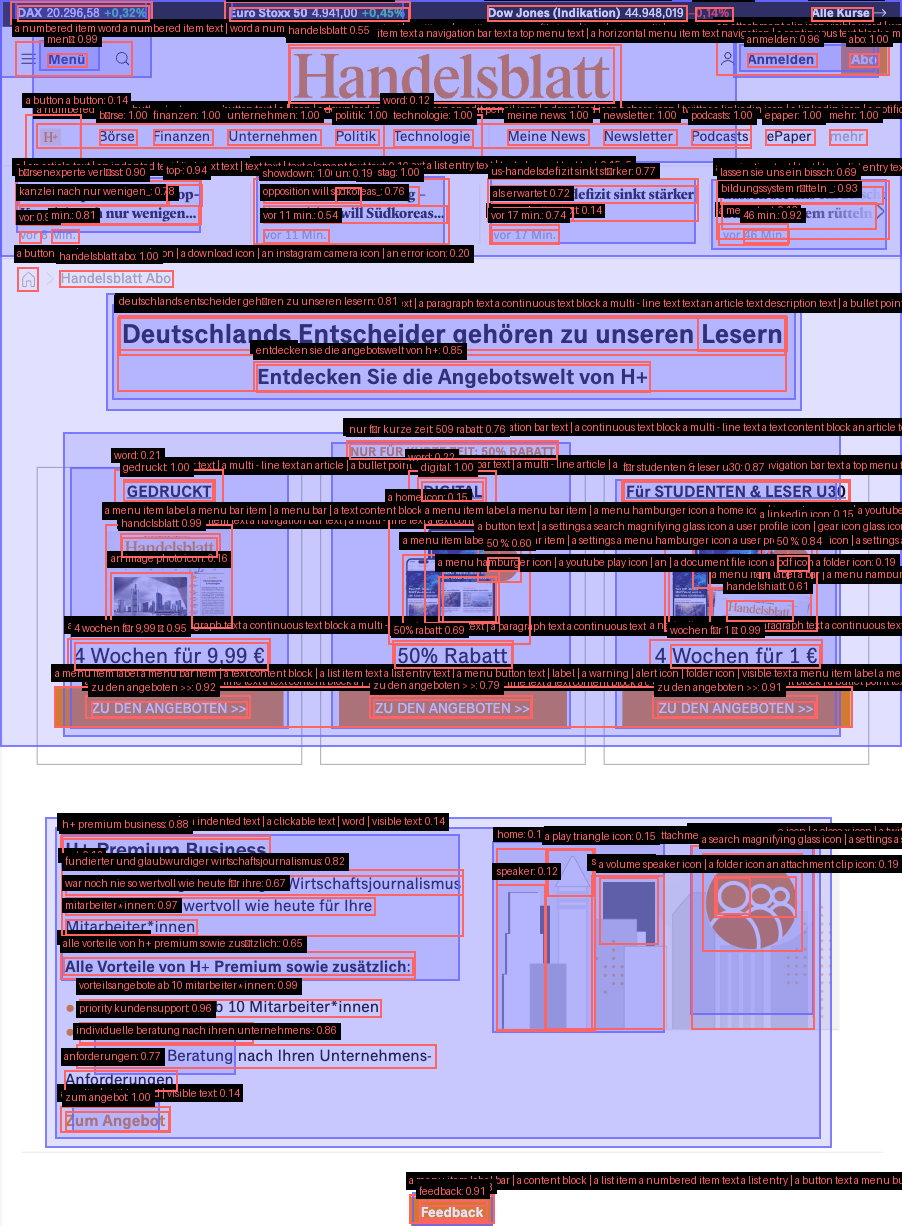
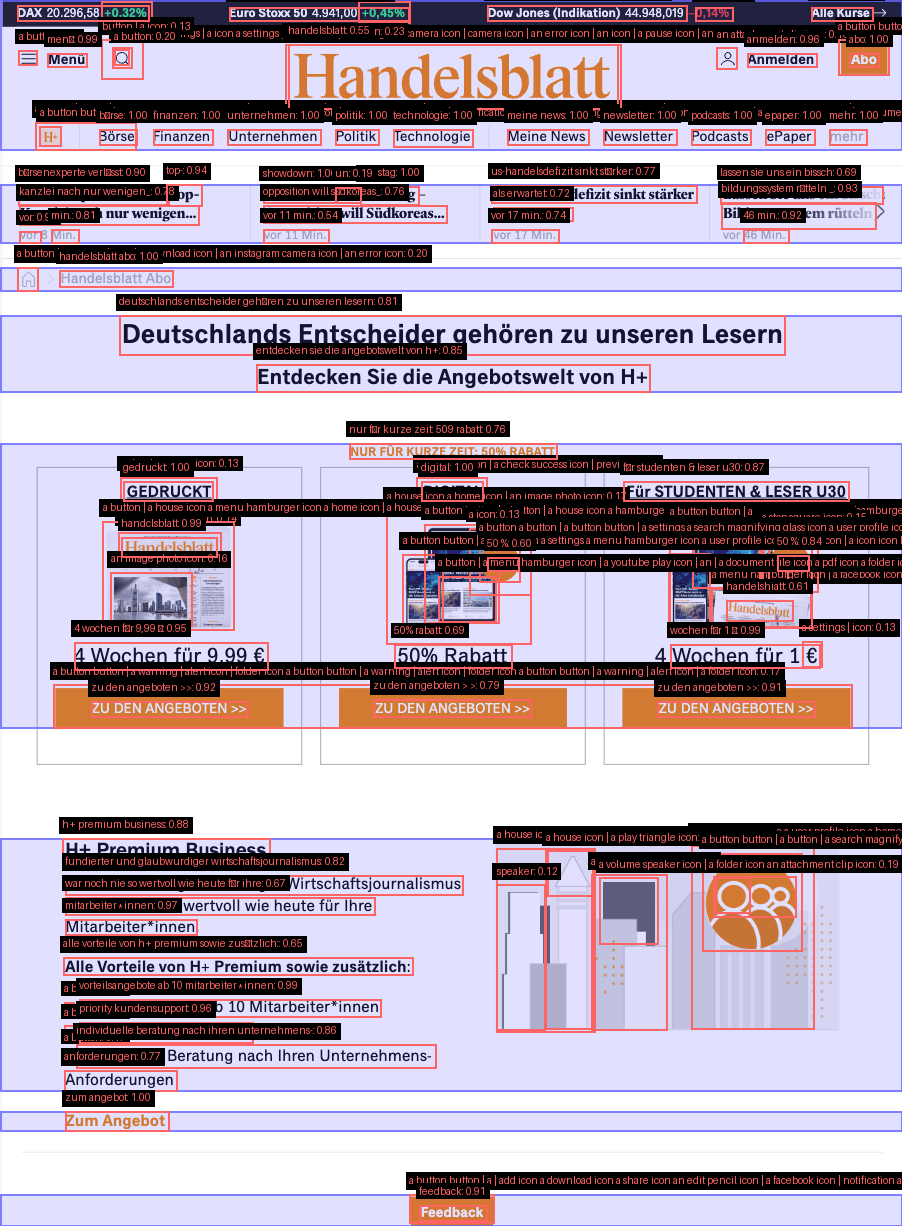
analysing-layout: simpler, stable

diff --git a/services/mask-generation/src/layout.py b/services/mask-generation/src/layout.py
@@ -1,90 +1,72 @@
-import numpy as np
-from scipy.ndimage import gaussian_filter, label
 from typing import List, Dict, Tuple
+import numpy as np
 
 class LayoutAnalyzer:
-    def __init__(self):
-        self.params = {
-            'large': {
-                'gaussian_sigma': 25,
-                'density_threshold': 0.15,
-                'min_area': 20000,
-                'level': 1
-            },
-            'medium': {
-                'gaussian_sigma': 20,
-                'density_threshold': 0.2,
-                'min_area': 5000,
-                'level': 2
-            },
-            'small': {
-                'gaussian_sigma': 15,
-                'density_threshold': 0.25,
-                'min_area': 1000,
-                'level': 3
-            }
-        }
-    
-    def create_density_map(self, detections: List[Dict], image_size: Tuple[int, int], params: Dict) -> np.ndarray:
-        density_map = np.zeros(image_size[::-1])
+    def __init__(self, min_gap_size: int = 20):
+        self.min_gap_size = min_gap_size
+
+    def analyze(self, detections: List[Dict], image_size: Tuple[int, int]) -> List[Dict]:
+        y_coords = []
         for det in detections:
-            x1, y1, x2, y2 = map(int, det['box'])
-            density_map[y1:y2, x1:x2] += 1
+            y1, y2 = det['box'][1], det['box'][3]
+            y_coords.extend([(y1, 'start'), (y2, 'end')])
+
+        y_coords.sort(key=lambda x: x[0])
         
-        density_map = gaussian_filter(density_map, sigma=params['gaussian_sigma'])
-        if np.max(density_map) > 0:
-            density_map = density_map / np.max(density_map)
-        return density_map
+        current_open = 0
+        gaps = []
+        last_y = 0
 
-    def find_containers(self, density_map: np.ndarray, params: Dict) -> List[Dict]:
-        binary_map = density_map > params['density_threshold']
-        labeled_array, num_features = label(binary_map)
+        for y, coord_type in y_coords:
+            if current_open == 0 and last_y > 0:
+                gap_size = y - last_y
+                if gap_size >= self.min_gap_size:
+                    gaps.append((last_y, y))
+
+            if coord_type == 'start':
+                current_open += 1
+            else:
+                current_open -= 1
+            last_y = y
+
         containers = []
+        current_y = 0
+        image_height = image_size[1]
 
-        for region_id in range(1, num_features + 1):
-            region_mask = labeled_array == region_id
-            y_indices, x_indices = np.where(region_mask)
-            
-            if len(y_indices) == 0 or len(x_indices) == 0:
-                continue
+        for gap_start, gap_end in gaps:
+            if current_y < gap_start:
+                elements = self._get_elements_in_section(detections, current_y, gap_start)
+                if elements:
+                    containers.append({
+                        'id': f'section_{len(containers)}',
+                        'box': [0, current_y, image_size[0], gap_start],
+                        'elements': elements,
+                        'type': 'section',
+                        'confidence': 1.0,
+                        'label': 'section'
+                    })
+            current_y = gap_end
 
-            x1, y1 = int(np.min(x_indices)), int(np.min(y_indices))
-            x2, y2 = int(np.max(x_indices)), int(np.max(y_indices))
-            area = (x2 - x1) * (y2 - y1)
-
-            if area < params['min_area']:
-                continue
-
-            containers.append({
-                'box': [x1, y1, x2, y2],
-                'level': params['level'],
-                'area': area
-            })
+        if current_y < image_height:
+            elements = self._get_elements_in_section(detections, current_y, image_height)
+            if elements:
+                containers.append({
+                    'id': f'section_{len(containers)}',
+                    'box': [0, current_y, image_size[0], image_height],
+                    'elements': elements,
+                    'type': 'section',
+                    'confidence': 1.0,
+                    'label': 'section'
+                })
 
         return containers
 
-    def find_parent(self, container: Dict, higher_level_containers: List[Dict]) -> str:
-        x1, y1, x2, y2 = container['box']
-        
-        for parent in higher_level_containers:
-            px1, py1, px2, py2 = parent['box']
-            if x1 >= px1 and x2 <= px2 and y1 >= py1 and y2 <= py2:
-                return parent.get('id', 'unknown')
-        return 'root'
-
-    def analyze(self, detections: List[Dict], image_size: Tuple[int, int]) -> List[Dict]:
-        all_containers = []
-        previous_level_containers = []
-        
-        for size, params in self.params.items():
-            density_map = self.create_density_map(detections, image_size, params)
-            containers = self.find_containers(density_map, params)
-            
-            for i, container in enumerate(containers):
-                container['id'] = f"{size}_{i}"
-                container['parent'] = self.find_parent(container, previous_level_containers)
-                
-            all_containers.extend(containers)
-            previous_level_containers = containers
-            
-        return sorted(all_containers, key=lambda x: (-x['level'], x['area'], x['box'][1], x['box'][0]))
+    def _get_elements_in_section(self, detections: List[Dict], y1: int, y2: int) -> List[Dict]:
+        section_elements = []
+        for det in detections:
+            det_y1, det_y2 = det['box'][1], det['box'][3]
+            element_height = det_y2 - det_y1
+            overlap = min(det_y2, y2) - max(det_y1, y1)
+            if overlap > element_height * 0.4:
+                section_elements.append(det)
+        return section_elements

diff --git a/services/mask-generation/config/settings.py b/services/mask-generation/config/settings.py
@@ -32,21 +32,13 @@ LAYOUT_PATTERNS = {
 }
 
 PROMPTS = [
-    "a horizontal menu item text. a navigation bar text. a top menu text. a menu item label. a menu bar item.",
-    "a paragraph text. a continuous text block. a multi-line text. a text content block. an article text. a description text.",
-    "a bullet point text. a list item text. a numbered item text. an indented text. a list entry text.",
-    "a button text. a link text. a clickable text. an action text. a menu button text.",
-    "a heading text. a title text. a label text. a caption text. a section text.",
-    "a settings gear icon. a menu hamburger icon. a search magnifying glass icon. a user profile icon. a home icon.",
+    "a button." "a text button", 
+    "a icon. a house icon. a settings gear icon. a menu hamburger icon. a search magnifying glass icon. a user profile icon. a home icon.",
     "a close x icon. a plus add icon. a minus remove icon. a download icon. a share icon. an edit pencil icon.",
     "a facebook icon. a twitter bird icon. an instagram camera icon. a linkedin icon. a youtube play icon.",
     "a notification bell icon. a warning alert icon. an info icon. a check success icon. an error icon.",
     "a play triangle icon. a pause icon. a stop square icon. a next icon. a previous icon. a volume speaker icon.",
     "a document file icon. a pdf icon. an image photo icon. a folder icon. an attachment clip icon.",
-    "any word. text content. readable text. visible word. displayed text.",
-    "word on screen. text element. text on page. visible text.",
-    "any text label. any visible word. any readable text. any displayed text.",
-    "text in any font. word in any size. text at any position."
 ]
 
 VISUALIZATION_COLORS = {
